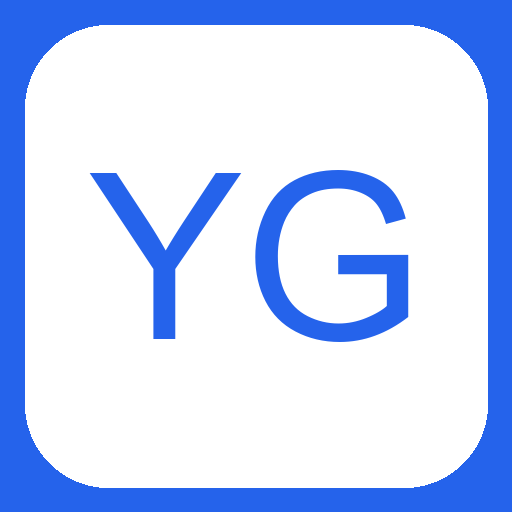
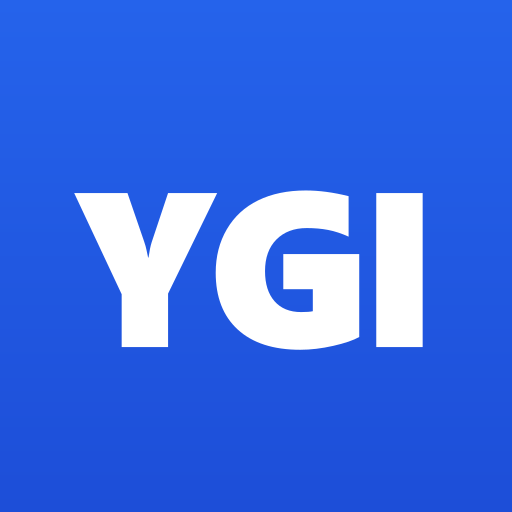
fix: NumberInput 소수점 + 'YGI' 아이콘 + Macro 수동 trigger
## NumberInput 소수점 입력 버그 수정
이전: "3." → 부모 value 3 → format "3" → 점 사라짐. "3.5", "3.50" 입력 불가능.
원인: 내부 state 없이 부모 number → format → display 사이클이라 mid-typing 보존 X.

수정:
- 내부 `text` state 추가 — 사용자가 보는 그대로 유지
- 외부 value 변화는 ref로 추적, user-typing이 아닌 경우에만 re-format
- "3."  "3.50"  "-" 같은 mid-typing 모두 보존
- 콤마는 정수 부분에만, 소수 부분은 그대로

## 앱 아이콘 'YGI' 재디자인
- 테두리 / 둥근 모서리 제거 — OS가 자체 곡률로 클립 (스쿼클, 원형 등)
- 그라데이션 배경 (primary blue → darker blue)
- maskable 아이콘은 safe zone(중앙 ~70%)에 텍스트 배치
- `scripts/generate-icons.mjs` 추가 — SVG → PNG (sharp)
- `npm run icons`로 재생성 가능
- 생성: icon-192, icon-512, icon-maskable-512, apple-touch-icon, icon-32

## 거시경제 데이터 수동 trigger
이슈: 05/16 03:30 KST에 Railway worker cron이 fetch 누락 (원인 불명) → DB 비어있었음.

조치:
1) 로컬에서 직접 Cloud DB로 fetch 실행 → 627건 backfill 완료
2) Worker RPC: `/rpc/macro_now` 엔드포인트 추가
3) Web API: `POST /api/admin/fetch-macro` — 수동 trigger
   → 다음에 cron 누락 시 즉시 backfill 가능

diff --git a/apps/web/components/number-input.tsx b/apps/web/components/number-input.tsx
@@ -1,18 +1,17 @@
 "use client";
 
-import { useId } from "react";
+import { useEffect, useRef, useState } from "react";
 import { Input } from "@/components/ui/input";
 
 /**
- * Plan #27.1: 천 단위 콤마 표시 + spinner 버튼 제거된 금액 입력 컴포넌트.
+ * Plan #27.1: 천 단위 콤마 표시 + spinner 버튼 제거된 금액 입력.
+ * Plan #27.4: 내부 텍스트 state로 소수점 입력 보존.
  *
- * - type="text" + inputMode="numeric" → 모바일에서 숫자 키패드 + 위/아래 버튼 X
- * - 입력값은 항상 number로 부모에 전달 (콤마 자동 제거)
- * - 빈 값은 0으로 처리
- *
- * @example
- *   <NumberInput value={amount} onChange={setAmount} />
- *   → 화면: "1,000,000"  부모: number 1000000
+ * 이전 버그:
+ *   "3." 입력 → onChange로 3 emit → 부모 value 3 → format 결과 "3" → 점이 사라짐.
+ * 해결:
+ *   내부에 text state를 유지하여 "3." "3.5" "3.50" 같은 중간 상태를 보존.
+ *   외부 value가 사용자 입력과 무관하게 바뀌었을 때만 re-format.
  */
 type Props = Omit<
   React.ComponentProps<"input">,
@@ -26,30 +25,58 @@ type Props = Omit<
   allowNegative?: boolean;
 };
 
-function formatWithCommas(n: number, allowDecimal: boolean): string {
+function formatForDisplay(n: number, allowDecimal: boolean): string {
   if (!Number.isFinite(n)) return "";
   if (n === 0) return "";
   return n.toLocaleString("en-US", {
-    maximumFractionDigits: allowDecimal ? 6 : 0,
+    maximumFractionDigits: allowDecimal ? 8 : 0,
   });
 }
 
-function parseInput(
+function parseToNumber(s: string): number {
+  const cleaned = s.replace(/,/g, "");
+  if (cleaned === "" || cleaned === "-" || cleaned === "." || cleaned === "-.")
+    return 0;
+  const n = Number(cleaned);
+  return Number.isFinite(n) ? n : 0;
+}
+
+/**
+ * 사용자 입력 raw를 정제해 표시용 텍스트 생성.
+ * 중간 상태 ("3.", "3.50", "-")를 보존.
+ */
+function sanitizeAndFormat(
   raw: string,
   allowDecimal: boolean,
   allowNegative: boolean,
-): number {
-  if (!raw) return 0;
-  // strip everything but digits, dot, minus
-  let cleaned = raw.replace(/,/g, "");
+): string {
+  // 1) 허용 문자만 (digits, dot, minus, comma)
+  let cleaned = raw.replace(/[^\d.\-,]/g, "").replace(/,/g, "");
   if (!allowDecimal) cleaned = cleaned.replace(/\./g, "");
-  if (!allowNegative) cleaned = cleaned.replace(/-/g, "");
-  // 음수는 앞에 한 번만, 소수점도 한 번만 유효
-  cleaned = cleaned.replace(/[^\d.\-]/g, "");
-  // 잘못된 위치의 -와 중복 .는 정리
-  if (cleaned === "" || cleaned === "-" || cleaned === ".") return 0;
-  const n = Number(cleaned);
-  return Number.isFinite(n) ? n : 0;
+  // 2) minus 처리 — 앞에만 한 번
+  let neg = "";
+  if (allowNegative && cleaned.startsWith("-")) {
+    neg = "-";
+  }
+  cleaned = cleaned.replace(/-/g, "");
+  // 3) dot 처리 — 첫 번째 dot만 유지
+  if (allowDecimal) {
+    const firstDot = cleaned.indexOf(".");
+    if (firstDot >= 0) {
+      cleaned =
+        cleaned.slice(0, firstDot + 1) +
+        cleaned.slice(firstDot + 1).replace(/\./g, "");
+    }
+  }
+  if (cleaned === "") return neg; // "-" 또는 ""
+  // 4) 정수 부분에만 콤마, 소수 부분은 그대로
+  if (cleaned.includes(".")) {
+    const [intPart, decPart] = cleaned.split(".");
+    const intFormatted =
+      intPart === "" ? "" : Number(intPart).toLocaleString("en-US");
+    return neg + intFormatted + "." + (decPart ?? "");
+  }
+  return neg + Number(cleaned).toLocaleString("en-US");
 }
 
 export function NumberInput({
@@ -60,18 +87,39 @@ export function NumberInput({
   className,
   ...rest
 }: Props) {
-  const id = useId();
-  const displayValue = formatWithCommas(value, allowDecimal);
+  // 내부 텍스트 state — 사용자가 보는 그대로
+  const [text, setText] = useState<string>(() =>
+    formatForDisplay(value, allowDecimal),
+  );
+  // 마지막으로 우리가 emit한 number 추적 (부모가 외부에서 value 변경했는지 판별)
+  const lastEmittedRef = useRef<number>(value);
+
+  // 외부 value 변화가 user-typing 결과가 아니면 text 재동기화
+  useEffect(() => {
+    if (value === lastEmittedRef.current) return;
+    setText(formatForDisplay(value, allowDecimal));
+    lastEmittedRef.current = value;
+  }, [value, allowDecimal]);
+
+  function handleChange(e: React.ChangeEvent<HTMLInputElement>) {
+    const formatted = sanitizeAndFormat(
+      e.target.value,
+      allowDecimal,
+      allowNegative,
+    );
+    setText(formatted);
+    const n = parseToNumber(formatted);
+    lastEmittedRef.current = n;
+    if (n !== value) onChange(n);
+  }
+
   return (
     <Input
-      id={rest.id ?? id}
       type="text"
       inputMode={allowDecimal ? "decimal" : "numeric"}
       autoComplete="off"
-      value={displayValue}
-      onChange={(e) =>
-        onChange(parseInput(e.target.value, allowDecimal, allowNegative))
-      }
+      value={text}
+      onChange={handleChange}
       className={className}
       {...rest}
     />

diff --git a/apps/web/app/api/admin/fetch-macro/route.ts b/apps/web/app/api/admin/fetch-macro/route.ts
@@ -1,0 +1,40 @@
+// Plan #27.4: Admin trigger — Railway worker가 cron을 누락한 경우 수동으로
+// 거시경제 지표 fetch를 발동. 호출은 idempotent + 부담 적음 (소수 ticker만).
+
+import { NextResponse } from "next/server";
+
+export const maxDuration = 120;
+
+export async function POST() {
+  const workerUrl = process.env.WORKER_RPC_URL;
+  const workerSecret = process.env.WORKER_RPC_SECRET;
+  if (!workerUrl || !workerSecret) {
+    return NextResponse.json(
+      { error: "worker_not_configured" },
+      { status: 500 },
+    );
+  }
+  try {
+    const res = await fetch(`${workerUrl}/rpc/macro_now`, {
+      method: "POST",
+      headers: {
+        "Content-Type": "application/json",
+        "X-Worker-Secret": workerSecret,
+      },
+      signal: AbortSignal.timeout(110_000),
+    });
+    if (!res.ok) {
+      const body = await res.text().catch(() => "");
+      return NextResponse.json(
+        { error: `worker_${res.status}`, detail: body.slice(0, 200) },
+        { status: 502 },
+      );
+    }
+    return NextResponse.json(await res.json());
+  } catch (e) {
+    return NextResponse.json(
+      { error: e instanceof Error ? e.message : "unknown" },
+      { status: 502 },
+    );
+  }
+}

diff --git a/apps/worker/src/ygworker/rpc/stocks.py b/apps/worker/src/ygworker/rpc/stocks.py
@@ -8,6 +8,7 @@ from ygworker.data_sources.naver_news import fetch_kr_news
 from ygworker.data_sources.yahoo import fetch_history, fetch_quote
 from ygworker.data_sources.yahoo_news import fetch_key_metrics, fetch_news
 from ygworker.jobs.enrich_stock_info import run_enrich_stock_info
+from ygworker.jobs.fetch_macro_indicators import run_fetch_macro_indicators
 
 
 class LookupRequest(BaseModel):
@@ -36,6 +37,13 @@ def make_router(supabase: Any, secret: str) -> APIRouter:
         """Plan #22 hotfix — 모든 stocks의 sector/PER/52w/market_cap를 yfinance로 갱신."""
         log = structlog.get_logger()
         return run_enrich_stock_info(supabase, log)
+
+    @router.post("/rpc/macro_now")
+    def macro_now(_: None = Depends(_check_secret)) -> dict:
+        """Plan #27.4: 거시경제 지표 수동 fetch (cron 누락 시 backfill)."""
+        log = structlog.get_logger()
+        run_fetch_macro_indicators(supabase, log)
+        return {"ok": True}
 
     @router.post("/rpc/stocks/lookup", response_model=LookupResponse)
     def lookup(req: LookupRequest, _: None = Depends(_check_secret)) -> LookupResponse:
